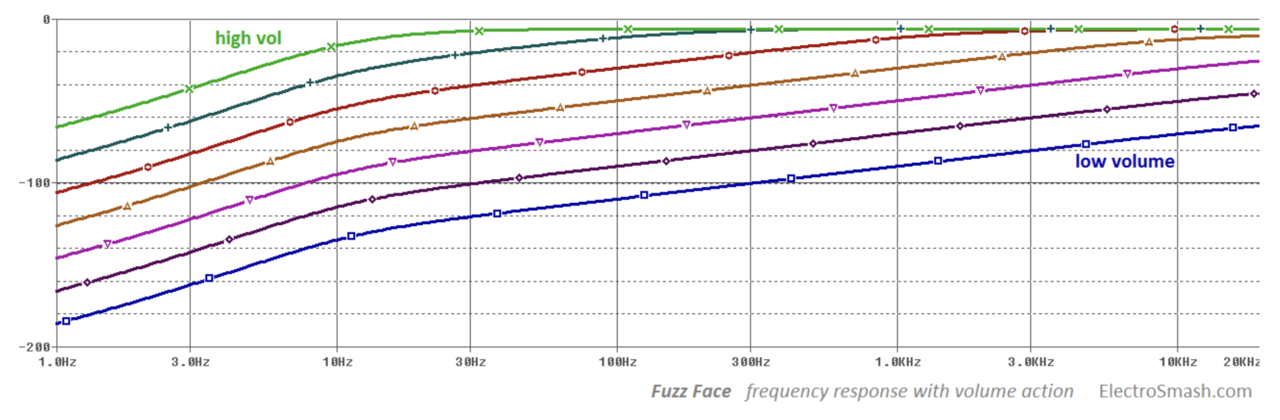
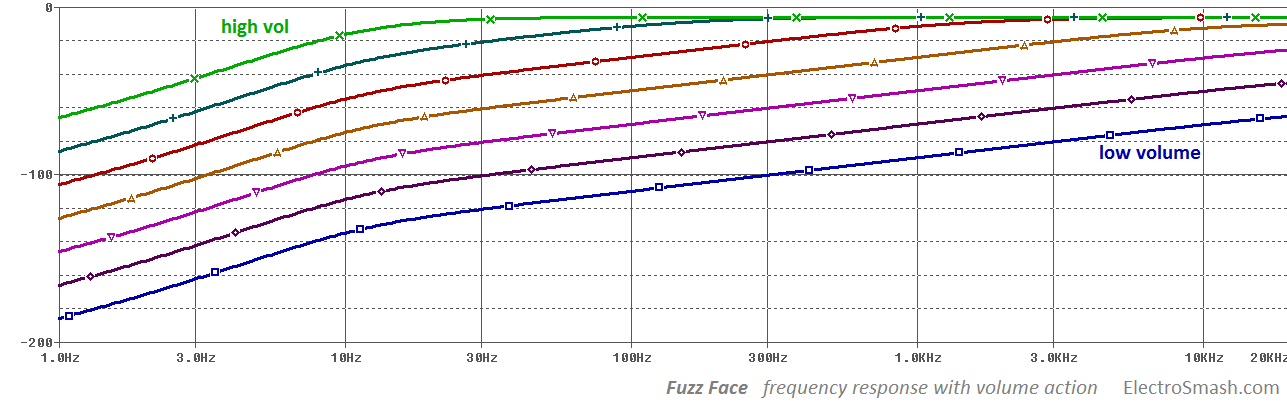
Restore equations and fix duplicated images site-wide
- Convert remaining gif.latex equation images (10 pages, 46 equations) to
  MathJax using the LaTeX preserved in the pdf/ HTML title attributes
- Use the original full-resolution fuzz-face frequency response chart
- Fix wrong duplicated images in mn3007 (bbd-silicon) and jrc4558
  (jrc4558-current-supply)
- Remove now-unused gif.latex placeholder files

Builds on PRs #1 and #2 by Paul Winkler.

diff --git a/lm386-analysis.html b/lm386-analysis.html
@@ -6,6 +6,8 @@
 <title>LM386 Audio Amplifier Analysis &middot; ElectroSmash Archive</title>
 <link rel="canonical" href="https://electrosmash.mas-effects.com/lm386-analysis.html">
 <link rel="stylesheet" href="style.css">
+<script>window.MathJax = {tex: {inlineMath: [["\\(", "\\)"]], displayMath: [["\\[", "\\]"]]}};</script>
+<script src="https://cdnjs.cloudflare.com/ajax/libs/mathjax/3.2.2/es5/tex-mml-chtml.min.js"></script>
 </head>
 <body>
 <header class="site-header">
@@ -107,13 +109,13 @@
 <li>The current mirror formed by Q5 and Q6 generates equal currents on both sides of the LTP. This current is labeled "I".</li>
 </ol>
 <p>Due to the current mirror, the current intensity through R8 is equal to 2I, neglecting the current (i7) through the two 15K resistors (R6, R7), which are large impedances compared to other parts of the circuit, thereby:</p>
-<p><br/>     <img alt="" border="0" class="article-img" src="images/lm386-analysis/gif.latex"/><br/>     <img alt="" border="0" class="article-img" src="images/lm386-analysis/gif.latex"/><br/>     <img alt="" border="0" class="article-img" src="images/lm386-analysis/gif.latex"/></p>
+<p><br/>     \[\frac{{V}_{out}-{V}_{in}}{{R}_{8}}= 2 I\]<br/>     \[{V}_{out} \gg {V}_{in}\]<br/>     \[\frac{{V}_{out}}{{R}_{8}}= 2 I\]</p>
 <p>In the figure above, is easy to see that if i7=0 then:</p>
-<p>    <img alt="" border="0" class="article-img" src="images/lm386-analysis/gif.latex"/></p>
+<p>    \[I=\frac{{V}_{in}}{{R}_{4}+{R}_{5}}\]</p>
 <p>So:</p>
-<p>   <img alt="" border="0" class="article-img" src="images/lm386-analysis/gif.latex"/><br/><br/>     <img alt="" border="0" class="article-img" src="images/lm386-analysis/gif.latex"/></p>
+<p>   \[\frac{{V}_{out}}{{R}_{8}}= 2 \frac{{V}_{in}}{{R}_{4}+{R}_{5}}\]<br/><br/>     \[{G}_{v}=\frac{{V}_{out}}{{V}_{in}}=2\frac{{R}_{8}}{{R}_{4} + {R}_{5}}\]</p>
 <p>This formula can also be rewritten in a more generic way as:</p>
-<p>    <img alt="" border="0" class="article-img" src="images/lm386-analysis/gif.latex"/> </p>
+<p>    \[{G}_{v}=\frac{{V}_{out}}{{V}_{in}}=2\frac{{Z}_{1-5}}{150 + {Z}_{1-8}}\] </p>
 <p>Where Z<sub>1-5</sub> and Z<sub>1-8</sub> are the impedances between the respective pins.</p>
 <ul>
 <li>Without any external components, it has a gain of Gv = 2x15K/(150+1350) = 20 (26 dB).</li>
@@ -138,17 +140,17 @@
 <p>Approach 1:</p>
 <p>The current mirror (Q<sub>5</sub>, Q<sub>6</sub>) balances the LTP, equalizing the current through both transistors (Q<sub>2</sub>, Q<sub>4</sub>) and improving the linearity of the input stage.  Therefore, the currents on both tails are equal: both DC and AC components.</p>
 <p><br/>Since the currents  "I" in the emitters of  Q<sub>2</sub> and Q<sub>4</sub> are the same:</p>
-<p><img alt="" border="0" class="article-img" src="images/lm386-analysis/gif.latex"/></p>
+<p>\[{V}_{7}=\frac{{V}_{cc}}{2}+{V}_{eb2}+{V}_{eb1} \approx \frac{{V}_{cc}}{2}\]</p>
 <p>Because of the symmetry of the circuit,  V<sub>out</sub> = V<sub>7</sub> ("Bypass" pin), making</p>
-<p><img alt="" border="0" class="article-img" src="images/lm386-analysis/gif.latex"/></p>
+<p>\[{V}_{out}=\frac{{V}_{cc}}{2}\]</p>
 
 <p>Approach 2:</p>
 <p>I<sub>diff</sub>=0 because V<sub>1</sub> and V<sub>2</sub> are at the same potential V<sub>1</sub>=V<sub>2</sub></p>
-<p><img alt="" border="0" class="article-img" src="images/lm386-analysis/gif.latex"/><br/><br/> <img alt="" border="0" class="article-img" src="images/lm386-analysis/gif.latex"/></p>
+<p>\[{I}_{Q2}=\frac{{V}_{cc}-{V}_{eb2}-{V}_{eb1}}{{R}_{6} + {R}_{7}}\]<br/><br/> \[{I}_{Q4}=\frac{{V}_{out}-{V}_{eb4}-{V}_{eb3}}{{R}_{8}}\]</p>
 <p>Due to the current mirror IQ2=IQ4</p>
-<p><img alt="" border="0" class="article-img" src="images/lm386-analysis/gif.latex"/></p>
+<p>\[\frac{{V}_{cc}-{V}_{eb2}-{V}_{eb1}}{{R}_{6} + {R}_{7}} = \frac{{V}_{out}-{V}_{eb4}-{V}_{eb3}}{{R}_{8}}\]</p>
 <p><br/>With Veb2= Veb4, Veb1=Veb3 and R6=R7=R8=15K:</p>
-<p> <img alt="" border="0" class="article-img" src="images/lm386-analysis/gif.latex"/><br/><br/> <img alt="" border="0" class="article-img" src="images/lm386-analysis/gif.latex"/></p>
+<p> \[{V}_{out}=\frac{{V}_{cc}}{2}+{V}_{eb1}+{V}_{eb2} \approx \frac{{V}_{cc}}{2}\]<br/><br/> \[{V}_{out}=\frac{{V}_{cc}}{2}\]</p>
 <h2><a id="frequency" name="frequency"></a>3. LM386 Frequency Response.</h2>
 <p>Looking at the LM386 <em>Voltage Gain vs Frequency</em> datasheet graph, the frequency response is flat in the audible region (up to 20KHz). Supplementary external components can be used to tailor the response to specific applications. </p>
 <p>It may be interesting to modify the feedback loop between pins 5 and 1 that can be exploited for bass boost, and the more familiar feedback loop between pins 8 and 1 can also be modified to use different capacitor/resistor feedback combinations in parallel to yield differential gain for different frequency ranges.</p>
@@ -159,17 +161,20 @@
 <ul>
 <li>If pin 8 is open: R<sub>min</sub>=10k, calculated as:</li>
 </ul>
-<p>    <img alt="" border="0" class="article-img" src="images/lm386-analysis/gif.latex"/><br/><br/></p>
+<p>    \[{G}_{v}=2\cdot\frac{{R}_{8}||{R}}{{R}_{4} + {R}_{5}} \to 9 &lt; 2\cdot \frac{15K||{R}}{150 + 1.35K}\to R&gt;12.2K\simeq10K\]<br/><br/></p>
 <ul>
 <li>If pins 1 -8 are bypassed: Rmin=2K, calculated as:        </li>
 </ul>
-<p>    <img alt="" border="0" class="article-img" src="images/lm386-analysis/gif.latex"/></p>
+<p>    \[{G}_{v}=2\cdot\frac{{R}_{8}||{R}}{{R}_{4}} \to 9 &lt; 2\cdot \frac{15K||{R}}{150}\to R&gt;0.69K\simeq2K\]</p>
 <h3><a id="bassboost" name="bassboost"></a><strong>3.1 LM386 Bass Boost Frequency Calculation:</strong></h3>
 <p>For a 6 dB effective bass boost, the datasheet suggests R=10K and C=33nF between pins 1 and 5 with pin 8 open, another common set of values used are  R=2K2 and R=4.7nF. Actually, this modification did not provide an active boost, just a roll-off at frequencies below the selected frequency, that is it a low pass filter.</p>
 <p>This mod can successfully compensate a poor speaker bass response and filter the hissing noise, but in the other hand, if the circuit has a gain pot between pins 1 and 8 as Little Gem, Ruby Amp and Noisy Cricket do, the cut frequency will be modified with the gain value. Unfortunately, the bass boost will be gain dependent.</p>
 <p>The effect of the bass boost RC network can be analyzed with the voltage gain equation above by inserting R + 1/jωC impedances in parallel to the internal Z<sub>1-5</sub> feedback resistor.</p>
-<p>    <img alt="" border="0" class="article-img" src="images/lm386-analysis/gif.latex"/>  <br/><br/>     <img alt="" border="0" class="article-img" src="images/lm386-analysis/gif.latex"/></p>
-<p>So f<sub>c</sub> can be calculated:<br/><br/>     <img alt="" border="0" class="article-img" src="images/lm386-analysis/gif.latex"/><br/>     <img alt="" border="0" class="article-img" src="images/lm386-analysis/gif.latex"/></p>
+<p>    \[{G}_{v}=2\cdot\frac{{Z}_{1-5}|| R + \frac{1}{j2\pi fC}}{150 + {Z}_{1-8}}\]
+\[{G}_{v}=\frac{2}{150 + {Z}_{1-8}}\cdot\frac{{Z}_{1-5}\cdot (R + \frac{1}{j2\pi fC})}{{Z}_{1-5} + R + \frac{1}{j2\pi fC}}\]
+\[{G}_{v}=\frac{2 {Z}_{1-5}R}{150 + {Z}_{1-8}}\cdot\frac{{Z}_{1-5}}{{j2\pi fC ({Z}_{1-5} + R)+1}}\]  <br/><br/>     \[{G}_{v}=\frac{1}{\frac{(150 + {Z}_{1-8}) \cdot j2\pi fC ({Z}_{1-5} + R)}{2({Z}_{1-5})^{2}R}+\frac{150 + {Z}_{1-8}}{2({Z}_{1-5})^{2}R}}\]
+\[|{G}_{v}|=\frac{1}{ \sqrt{(\frac{(150 + {Z}_{1-8}) \cdot j2\pi fC ({Z}_{1-5} + R)}{2({Z}_{1-5})^{2}R})^{2}+(\frac{150 + {Z}_{1-8}}{2({Z}_{1-5})^{2}R}})^{2}}\]</p>
+<p>So f<sub>c</sub> can be calculated:<br/><br/>     \[{f}_{c}=\frac{\frac{150 + {Z}_{1-8}}{2({Z}_{1-5})^{2}R} \cdot 2({Z}_{1-5})^{2}R}{2\pi C(150 + {Z}_{1-8}) \cdot ({Z}_{1-5} + R)}\]<br/>     \[{f}_{c}=\frac{1}{2\pi C \cdot ({Z}_{1-5} + R)}\]</p>
 <p>So, assuming that the Z<sub>1-5</sub> internal resistance is 15K, the value of f<sub>c</sub> for the most common RC values can be calculated as follows:</p>
 <ul>
 <li>Using R=10K and C=33nF →  f<sub>c</sub>= 1/2π x 33nF x (15K+10K)=192,2 Hz</li>

diff --git a/ruby-amp-analysis.html b/ruby-amp-analysis.html
@@ -6,6 +6,8 @@
 <title>Ruby Amp Analysis &middot; ElectroSmash Archive</title>
 <link rel="canonical" href="https://electrosmash.mas-effects.com/ruby-amp-analysis.html">
 <link rel="stylesheet" href="style.css">
+<script>window.MathJax = {tex: {inlineMath: [["\\(", "\\)"]], displayMath: [["\\[", "\\]"]]}};</script>
+<script src="https://cdnjs.cloudflare.com/ajax/libs/mathjax/3.2.2/es5/tex-mml-chtml.min.js"></script>
 </head>
 <body>
 <header class="site-header">
@@ -40,8 +42,8 @@
 <p>The R<sub>3</sub> Volume potentiometer limits the amount of signal into the 386. As the Volume is increased, you will start getting nice breakup. Remember that the input voltage bounds for LM386 are ±0.4V, over/under these levels, the signal will be clipped.</p>
 <h3><a id="link13" name="link13"></a><strong>1.3 Gain Circuit</strong></h3>
 <p>The 1K logarithmic potentiometer (R<sub>4</sub>) is placed between pins 1 and 8 in order to adjust the gain from 41 (28dB) to 200 (46db). Following the general LM386 voltage gain formula (from the datasheet):</p>
-<p><img alt="" class="article-img" src="images/ruby-amp-analysis/gif.latex"/></p>
-<p><img alt="" class="article-img" src="images/ruby-amp-analysis/gif.latex"/></p>
+<p>\[{G}_{v\: max}=\frac{{V}_{out}}{{V}_{in}}=2\frac{{Z}_{1-5}}{150 + {Z}_{1-8}}=2\frac{15K}{150 + 0}= 200 \: (46dB)\]</p>
+<p>\[{G}_{v\: min}=\frac{{V}_{out}}{{V}_{in}}=2\frac{{Z}_{1-5}}{150 + {Z}_{1-8}}=2\frac{15K}{150 + (1.35K||1K))}= 41 \: (32dB)\]</p>
 <p>Where Z<sub>1-5</sub> and Z<sub>1-8</sub> are the impedances between the respective pins. Note that Z<sub>1-5</sub> internal resistance is 15K and Z<sub>1-8</sub> is 1.35K.</p>
 <h3><a id="link14" name="link14"></a><strong>1.4. Stabilization Techniques</strong></h3>
 <p>Following the LM386 application notes, some measures should be taken to increase the stability and prevent signal degradation:</p>
@@ -59,13 +61,13 @@
 <ul>
 <li>The first high-pass filter cut-off frequency is around 360Hz and it is formed by C<sub>1</sub> and R<sub>3</sub> (note that the volume resistor wiper is loaded by the LM386 input resistance, which is 50K). The cut-off frequency is variable or "volume dependent" following the equation below. However, this unwished variation is very small and only present at low volume levels, this tiny tone change is barely noticeable:<br/></li>
 </ul>
-<p> <img alt="" class="article-img" src="images/ruby-amp-analysis/gif.latex"/></p>
-<p> <img alt="" class="article-img" src="images/ruby-amp-analysis/gif.latex"/></p>
+<p> \[f_{c \: min}=\frac{1}{2\pi\cdot C1 \cdot R }=\frac{1}{2\pi\cdot 47uF \cdot 10K}=338Hz\]</p>
+<p> \[f_{c \: max}=\frac{1}{2\pi\cdot C1 \cdot R }=\frac{1}{2\pi\cdot 47uF \cdot (10K||50K)}=408Hz\]</p>
 
 <ul>
 <li>The second high-pass filter formed by C<sub>5</sub> and the speaker load (8Ω) is a classic bass cut filter, that will start rolling off bass under 90Hz to keep the small speaker from farting out and also removing any DC component from the output signal. For more detailed info check the <a href="smokey-amp-analysis.html#freq">"Smokey Amp Frequency Response"</a>.</li>
 </ul>
-<p><img alt="" class="article-img" src="images/ruby-amp-analysis/gif.latex"/></p>
+<p>\[f_{c \: max}=\frac{1}{2\pi\cdot C \cdot R }=\frac{1}{2\pi\cdot 220uF \cdot 8 }=90Hz\]</p>
 
 
 <p>So taking both filters into consideration, the graph gain vs frequency looks like this:</p>
@@ -94,7 +96,7 @@
 <li>Remove the Gain pot and place 2K2 R<sub>4</sub> fixed resistor between pins 1 and 8.<br/></li>
 </ul>
 <p>In the Ruby Bassman, the Gain is level fixed to 30, remember that the Original Ruby Gain is variable from 41 to 200, so the signal, in this case, will be less distorted.</p>
-<p><img alt="" class="article-img" src="images/ruby-amp-analysis/gif.latex"/></p>
+<p>\[G_{v}=2 \cdot \frac{Z_{1-5}}{150+Z_{1-8}}=2 \cdot \frac{15K}{150+(1.35||2K2))}=30.4\: (29dB)\]</p>
 <p>Where Z<sub>1-5</sub> and Z1-8 are the impedances between the respective pins. Note that Z<sub>1-5</sub> internal resistance is 15K and Z<sub>1-8</sub> is 1.35K.</p>
 <h4><a id="link411" name="link411"></a><strong>4.1.1 Ruby Bassman Frequency Response</strong></h4>
 <p><img alt="Ruby Bassman Frequency Response" class="article-img" src="images/ruby-amp-analysis/ruby-bassman-freq.gif"/></p>
@@ -109,7 +111,7 @@
 <li>Tied together pins 1 &amp; 8 for a gain of 200.</li>
 </ul>
 <p>The voltage gain is fixed in 200:</p>
-<p><img alt="" class="article-img" src="images/ruby-amp-analysis/gif.latex"/></p>
+<p>\[G_{v}=2 \cdot \frac{Z_{1-5}}{150+Z_{1-8}}=2 \cdot \frac{15K}{150+0}=200\: (46dB)\]</p>
 <p>Where Z<sub>1-5</sub> and Z<sub>1-8</sub> are the impedances between the respective pins. Note that Z<sub>1-5</sub> internal resistance is 15K and Z<sub>1-8</sub> is 1.35K.<br/></p>
 <h4><a id="link421" name="link421"></a><strong>4.2.1 Ruby Hiwat Frequency Response.</strong></h4>
 <p><img alt="Ruby Hiwatt Frequency Response" class="article-img" src="images/ruby-amp-analysis/ruby-hiwatt-freq.gif"/></p>

diff --git a/jrc4558-analysis.html b/jrc4558-analysis.html
@@ -6,6 +6,8 @@
 <title>JRC4558 Analysis &middot; ElectroSmash Archive</title>
 <link rel="canonical" href="https://electrosmash.mas-effects.com/jrc4558-analysis.html">
 <link rel="stylesheet" href="style.css">
+<script>window.MathJax = {tex: {inlineMath: [["\\(", "\\)"]], displayMath: [["\\[", "\\]"]]}};</script>
+<script src="https://cdnjs.cloudflare.com/ajax/libs/mathjax/3.2.2/es5/tex-mml-chtml.min.js"></script>
 </head>
 <body>
 <header class="site-header">
@@ -26,7 +28,7 @@
 <p>The JRC4558 internal schematic is based on the Lin Topology (named after <a href="http://www.washingtonpost.com/wp-dyn/content/article/2009/03/28/AR2009032801762.html" rel="noopener noreferrer" target="_blank">Hung C. 'Jimmy' Lin an RCA researcher</a>) following the <a href="https://en.wikipedia.org/wiki/Operational_amplifier#Internal_circuitry_of_741-type_op-amp" rel="noopener noreferrer" target="_blank">classic 741 type opamp structure</a> with some modifications. Find below the simplified circuit provided by JRC, broken down into blocks: Current Supply, Input Stage, Voltage Amplifier Stage (VAS), Output Stage (OPS) and Feedback Path.<br/><img alt="JRC internal circuit schematic" class="article-img" src="images/jrc4558-analysis/jrc4558-color-schematic.png"/></p>
 <h3><a id="current"></a><strong>1.1 JRC4558 Current Supply.</strong></h3>
 <p>The Active Current Supply it is a utility stage which provides a constant flow of current to the different blocks. A stable current source is important in order to improve linearity and noise rejection. This stage highlighted in green color is formed by Q<sub>1</sub>, Q<sub>7</sub>, Q<sub>13</sub>, Q<sub>14</sub>, Q<sub>15</sub>, R<sub>1</sub>, R<sub>9</sub> and D<sub>2</sub>:</p>
-<p><img alt="JRC4558 Current Supply" class="article-img" src="images/jrc4558-analysis/jrc4558-input-stage.png"/></p>
+<p><img alt="JRC4558 Current Supply" class="article-img" src="images/jrc4558-analysis/jrc4558-current-supply.png"/></p>
 <p>The JFET Q<sub>15</sub> is a self-biased current source, it will provide a constant current source independent from the voltage supply. The start-up of this part of the circuit is simple:</p>
 <ul>
 <li>When the +Vcc voltage source is turned on, no current is yet flowing through the JFET Q<sub>15</sub>. Then the voltage drop across the Zener diode D2 and V<sub>GS</sub> will be zero. With zero V<sub>GS</sub> the transistor enters in saturation region allowing a large current to flow through the JFET, so the current will increase. As the current increases, a voltage drop will develop across the Zener, until the diode will be reversed biased. The gate will become negatively biased with regards to the source, negative values of V<sub>GS</sub> will start to shut Q<sub>15</sub> off. Eventually, a stable equilibrium will be attained through feedback, where V<sub>GS</sub> is just right for the current flowing through the JFET. </li>
@@ -35,7 +37,7 @@
 <p><img alt="Jfet N Channel Graph" class="article-img" src="images/jrc4558-analysis/jrc4558-color-schematic-small.png"/></p>
 <p>The Zener diode D<sub>2</sub>, when reverse biased has a constant voltage drop (Vz). As long as the Zener current (Iz) is between certain levels (Iz<sub>min</sub> and Iz<sub>max</sub>) called holding current, the voltage across the Zener diode (V<sub>Z</sub>) will be constantly working in the Voltage Regulation Area:<img alt="Diode Zener Graph" class="article-img" src="images/jrc4558-analysis/diode-zener-graph.png"/></p>
 <p>The Zener diode stabilized voltage V<sub>Z</sub> drives an emitter follower Q<sub>14</sub> loaded by a constant emitter resistor R<sub>9</sub> sensing the load current. As a result, the output current I<sub>9</sub> is almost constant even if the load resistance and/or voltage changes. The circuit operates as a constant current source:</p>
-<p><img alt="" class="article-img" src="images/jrc4558-analysis/gif.latex"/></p>
+<p>\[I_{9}=\frac{V_{z}-V_{be}}{R_{9}}\]</p>
 <p>The external current mirror load of this current source is connected to the collector so that almost the same current flows through it and the emitter resistor.</p>
 <ul>
 <li> Q<sub>13</sub> and Q<sub>7</sub> are configured as a classic current mirror, meaning that the current through Q<sub>13</sub> (I<sub>13</sub>) will be mirrored in Q<sub>7</sub>, making I<sub>13</sub> = I<sub>7</sub></li>

diff --git a/mn3007-bucket-brigade-devices.html b/mn3007-bucket-brigade-devices.html
@@ -6,6 +6,8 @@
 <title>Bucket Brigade Devices: MN3007 &middot; ElectroSmash Archive</title>
 <link rel="canonical" href="https://electrosmash.mas-effects.com/mn3007-bucket-brigade-devices.html">
 <link rel="stylesheet" href="style.css">
+<script>window.MathJax = {tex: {inlineMath: [["\\(", "\\)"]], displayMath: [["\\[", "\\]"]]}};</script>
+<script src="https://cdnjs.cloudflare.com/ajax/libs/mathjax/3.2.2/es5/tex-mml-chtml.min.js"></script>
 </head>
 <body>
 <header class="site-header">
@@ -25,7 +27,7 @@
 <p>BBDs are given their name because of the similarity in their functionality to a line of people passing buckets of water to fight a fire. The chip was licensed to Matsushita from mid-70s, Roland/Boss was the first customer and they used it in the Roland JC120 Amplifier, the Chorus CE-1 pedal and later on the<a href="boss-ce-2-analysis.html"> Chorus CE-2</a>.</p>
 <p><img alt="Fire Bucket Brigade" class="article-img" src="images/mn3007-bucket-brigade-devices/fire-bucket-brigade.jpg"/></p>
 
-<p><img alt="Bucket Brigade Device Silicon" class="article-img" src="images/mn3007-bucket-brigade-devices/bbd-topology-basic.png"/></p>
+<p><img alt="Bucket Brigade Device Silicon" class="article-img" src="images/mn3007-bucket-brigade-devices/bbd-silicon.png"/></p>
 <p>They consist of a series of capacitors sections which carry the analog signal. The charge in each cap stage is passed into the subsequent stage using transistors as switches at a rate determined by an external clock. <br/>In this way, the output delayed signal is discrete in time due to the external clock sampling and analog in amplitude because of the capacitor storage element.</p>
 
 <p><img alt="Bucket Brigade Device Explanation" class="article-img" src="images/mn3007-bucket-brigade-devices/bbd-basic.png"/></p>
@@ -71,10 +73,10 @@
 <h3><strong><a id="link41" name="link41"></a>4.1 BBD Clock Limitations.</strong></h3>
 <p>Following the datasheet recommendations, BBDs guaranteed a correct behavior under a certain clock frequency (100~200KHz). It is because the input capacitance of the clock pins causes progressive degradation of clock pulses above the frequency limit: The clock pulses change from square to a trapezoidal/sawtooth waveform. When that happens the switching action is not perfectly synchronized resulting in a signal degradation.<br/><br/>The clock frequency limitation is the reason why the Reticon SAD1024 chip was a largely preferred choice for flangers effects which involve short delay and fast clock: the input capacitance on the clock pins was much lower (110pF) than on the MN3007 (700pF), allowing it to be clocked at much higher frequencies.<br/>When suitably buffered, though, there are reports of it clocking MN3xxx chips up well past 1MHz, which takes the device close the zero-delay zone, being convenient for fine flanger effects.</p>
 <p>BBD Sampling Time Limitations: For any BBD, the total delay time can be calculated as:</p>
-<p><img alt="" class="article-img" src="images/mn3007-bucket-brigade-devices/gif.latex"/><br/>where:</p>
+<p>\[time_{delay}=\frac{N}{2\cdot f_{clock}}\]<br/>where:</p>
 <p>N: is the number of stages.<br/>f<sub>clock</sub>: is the circuit clock frequency.</p>
 <p>The clock signals applied to the BBD will determine the signal sampling time, this sampling time should respect the Nyquist-Shannon Theorem:</p>
-<p><img alt="" class="article-img" src="images/mn3007-bucket-brigade-devices/gif.latex"/></p>
+<p>\[f_{sampling}&lt; 2 \cdot f_{signal}\]</p>
 <ul>
 <li>For short delay effects like flanging, the input signal can be oversampled, there is no penalty in terms of signal degradation. If the clock signal goes beyond the BBD clock boundary, the clk signal can be degraded as explained above and the audio waveform corrupted. </li>
 <li>For long delay effects like delay, the input signal is can be undersampled, the resulting processed signal will be degraded but the total delay time is extended.</li>

diff --git a/big-muff-pi-analysis.html b/big-muff-pi-analysis.html
@@ -6,6 +6,8 @@
 <title>Big Muff Pi Analysis &middot; ElectroSmash Archive</title>
 <link rel="canonical" href="https://electrosmash.mas-effects.com/big-muff-pi-analysis.html">
 <link rel="stylesheet" href="style.css">
+<script>window.MathJax = {tex: {inlineMath: [["\\(", "\\)"]], displayMath: [["\\[", "\\]"]]}};</script>
+<script src="https://cdnjs.cloudflare.com/ajax/libs/mathjax/3.2.2/es5/tex-mml-chtml.min.js"></script>
 </head>
 <body>
 <header class="site-header">
@@ -60,23 +62,23 @@
 </ul>
 <p>The equivalent circuit uses Norton's current source since the feedback signal is current. In the image below, the feedback resistor is grounded in the input and output sections and the resistors grouped:<img alt="Big Muff Pi Small Signal " class="article-img" src="images/big-muff-pi-analysis/bmp-small-signal2.png"/> </p>
 <p>Where:</p>
-<p><img alt="" class="article-img" src="images/big-muff-pi-analysis/gif.latex"/></p>
-<p><img alt="" class="article-img" src="images/big-muff-pi-analysis/gif.latex"/></p>
+<p>\[R_{B}=R_{S}//R_{A}//R_{F} = 39K//47K//470K = 20.4K\]</p>
+<p>\[R_{L}=R_{sustain}//R_{C}//R_{F} = 101K//10K//470K = 9K\]</p>
 
 
 <ul>
 <li><strong>c) T</strong><strong>he voltage gain</strong> can be calculated following the simplified analysis of these equations:</li>
 </ul>
 <p>A<sub>Z</sub>: Voltage-Shunt Gain without feedback formula:</p>
-<p><img alt="" class="article-img" src="images/big-muff-pi-analysis/gif.latex"/></p>
-<p><br/><img alt="" class="article-img" src="images/big-muff-pi-analysis/gif.latex"/></p>
-<p><br/><img alt="" class="article-img" src="images/big-muff-pi-analysis/gif.latex"/></p>
+<p>\[A_{z}=\frac{V_{out}}{I_{s}}=\frac{\beta \cdot i_{b} \cdot R_{L}}{i_{b} + (\frac{r\pi \cdot i_{b}}{R_{B}}) + (\frac{R_{E}(\beta +1)i_{b}}{R_{B}})}\]</p>
+<p><br/>\[with\: \: \: \: (\frac{R_{E}(\beta +1)i_{b}}{R_{B}}) \gg i_{b} + (\frac{r\pi \cdot i_{b}}{R_{B}})\]</p>
+<p><br/>\[A_{z}=\frac{V_{out}}{I_{s}}=\frac{R_{B} \cdot R_{L}}{R_{E}}\]</p>
 <p>B<sub>G</sub>: Feedback Voltage-Shunt formula:</p>
-<p><img alt="" class="article-img" src="images/big-muff-pi-analysis/gif.latex"/></p>
+<p>\[B_{G}=\frac{I_{F}}{V_{out}}=- \frac{1}{R_{F}}\]</p>
 <p>A<sub>ZF</sub>: Voltage-Shunt Gain with Feedback </p>
-<p><img alt="" class="article-img" src="images/big-muff-pi-analysis/gif.latex"/></p>
+<p>\[A_{ZF}=\frac{A_{Z}}{1+A_{Z}B_{G}}=\frac{\frac{R_{B} \cdot R_{L}}{R_{E}}}{1+\frac{R_{B} \cdot R_{L}}{R_{E}}\cdot\frac{1}{R_{F}}}\]</p>
 <p>GV: Voltage Gain:</p>
-<p><img alt="" class="article-img" src="images/big-muff-pi-analysis/gif.latex"/></p>
+<p>\[G_{V}=\frac{V_{out}}{V_{S}}=\frac{V_{out}}{I_{S}\cdot R_{S}}=\frac{A_{ZF}}{R_{S}}\]</p>
 <p>Replacing the Input Booster circuit values R<sub>B</sub>=20.4K, R<sub>L</sub>=9K, R<sub>E</sub> =100, R<sub>S</sub>=39K and R<sub>F</sub> =470K the results obtained are B<sub>G</sub>=1/470K, A<sub>ZF</sub>=374.2 and the voltage value is G<sub>V</sub>=9.6 (19.6dB) although doing the simulation the G<sub>V</sub> never reaches this value (it is 16.7 dB).</p>
 
 <h3><a id="link23" name="link23"></a><strong>2.3 Big Muff Pi Input Impedance Calculation.</strong></h3>

diff --git a/little-gem-analysis.html b/little-gem-analysis.html
@@ -6,6 +6,8 @@
 <title>Little Gem Analysis &middot; ElectroSmash Archive</title>
 <link rel="canonical" href="https://electrosmash.mas-effects.com/little-gem-analysis.html">
 <link rel="stylesheet" href="style.css">
+<script>window.MathJax = {tex: {inlineMath: [["\\(", "\\)"]], displayMath: [["\\[", "\\]"]]}};</script>
+<script src="https://cdnjs.cloudflare.com/ajax/libs/mathjax/3.2.2/es5/tex-mml-chtml.min.js"></script>
 </head>
 <body>
 <header class="site-header">
@@ -25,8 +27,8 @@
 <p>This guitar mini amplifier takes the basic <a href="smokey-amp-analysis.html">Smokey Amp circuit</a> and adds several improvements like power supply decoupling caps, a Zobel Network and Gain / Master Volume controls.<a href="images/little-gem-analysis/little-gem.gif" rel="noopener" target="_blank"></a></p>
 <h3><strong><a id="link11" name="link11"></a>1.1 Gain &amp; Volume Controls.</strong></h3>
 <p><strong>Gain:</strong> To make the LM386 a more versatile amplifier, a 5K logarithmic R<sub>1</sub> potentiometer is placed between pins 1 and 8 to adjust the gain from 26 (28dB) to 200 (46db) following the general LM386 voltage gain formula:</p>
-<p> <img alt="" class="article-img" src="images/little-gem-analysis/gif.latex"/></p>
-<p><img alt="" class="article-img" src="images/little-gem-analysis/gif.latex"/></p>
+<p> \[{G}_{v\: min}=\frac{{V}_{out}}{{V}_{in}}=2\frac{{Z}_{1-5}}{150 + {Z}_{1-8}}=2\frac{15K}{150 + (1.35K||5K))}= 26 \: (28dB)\]</p>
+<p>\[{G}_{v\: max}=\frac{{V}_{out}}{{V}_{in}}=2\frac{{Z}_{1-5}}{150 + {Z}_{1-8}}=2\frac{15K}{150 + 0}= 200 \: (46dB)\]</p>
 <p>Where Z<sub>1-5</sub> and Z<sub>1-8</sub> are the impedances between the respective pins. Note that Z<sub>1-5</sub> internal resistance is 15K and Z<sub>1-8</sub> is 1.35K.</p>
 
 <p><strong>Volume:</strong> The volume control is just a voltage divider with an R3 rheostat in the last stage of the circuit.</p>
@@ -54,11 +56,11 @@
 <ul>
 <li><strong>fcmin:</strong> with the volume pot wiper in the <em>min</em> position (set in top-down position), producing minimum output volume, the load is connected to ground. find below the frequency response in red color.</li>
 </ul>
-<p><img alt="" class="article-img" src="images/little-gem-analysis/gif.latex"/></p>
+<p>\[f_{c \: min}=\frac{1}{2\pi\cdot C \cdot R }=\frac{1}{2\pi\cdot 220uF \cdot 25}=29Hz\]</p>
 <ul>
 <li><strong>fcmax</strong>: with the volume pot wiper in the <em>max</em> position (set in top-up position), generating maximum output volume,  the load is in parallel with the volume resistor, find below the frequency response in blue color.</li>
 </ul>
-<p><img alt="" class="article-img" src="images/little-gem-analysis/gif.latex"/></p>
+<p>\[f_{c \: max}=\frac{1}{2\pi\cdot C \cdot R }=\frac{1}{2\pi\cdot 220uF \cdot (25||8)}=119Hz\]</p>
 
 <p>The cut-off frequency at minimum volume is 29 Hz, this value can be too low because the 50-60Hz harmonics from the power network may create a hum. However at this volume level, it does not matter, it is too weak to be noticed.</p>
 <h2><a id="link3" name="link3"></a><strong>3. Little Gem Mods.</strong></h2>

diff --git a/smokey-amp-analysis.html b/smokey-amp-analysis.html
@@ -6,6 +6,8 @@
 <title>Smokey Amp Analysis &middot; ElectroSmash Archive</title>
 <link rel="canonical" href="https://electrosmash.mas-effects.com/smokey-amp-analysis.html">
 <link rel="stylesheet" href="style.css">
+<script>window.MathJax = {tex: {inlineMath: [["\\(", "\\)"]], displayMath: [["\\[", "\\]"]]}};</script>
+<script src="https://cdnjs.cloudflare.com/ajax/libs/mathjax/3.2.2/es5/tex-mml-chtml.min.js"></script>
 </head>
 <body>
 <header class="site-header">
@@ -26,7 +28,7 @@
 
 <p><strong>Gain Calculation:</strong></p>
 <p>Using the general equation of LM386 amplifier, the voltage gain can be calculated as:</p>
-<p><img alt="" class="article-img" src="images/smokey-amp-analysis/gif.latex"/> </p>
+<p>\[{G}_{v}=\frac{{V}_{out}}{{V}_{in}}=2\frac{{Z}_{1-5}}{150 + {Z}_{1-8}}=2\frac{15K}{150 + 0}= 200\: \: (46dB)\] </p>
 <p>Where Z1-5 and Z1-8 are the impedances between the respective pins. Note that Z1-5 internal resistance is 15K and Z1-8 is 1.35K.</p>
 <p>So, the gain is set to the maximum, 200 (46dB). With such a high gain, the circuit could be sensitive to component placement and may tend to oscillate. There are several techniques to improve stability and avoid oscillation: power supply decoupling caps, Zobel output network, etc. Zinky skips all of them in order to keep the design simple.</p>
 <p>Pins 1 and 8 are connected together directly instead of using a cap, as the datasheet suggests. With this arrangement, the circuit will archive higher gain, but the DC operating point of the internal transistors will be affected ( which must have some effect over the tone). However, Zinky again drops this suggestion using a straightforward connection between pins and saving another component to be placed.<br/><br/>The 47uF C1 capacitor from pin 7 to ground in LM386, is used to keep the power supply noise from reaching the output. The high-gain input stage of the IC will be isolated from the power supply noise.</p>

diff --git a/1wamp.html b/1wamp.html
@@ -8,6 +8,8 @@
 <link rel="stylesheet" href="style.css">
 <script>window.MathJax = {tex: {inlineMath: [["\\(", "\\)"]], displayMath: [["\\[", "\\]"]]}};</script>
 <script src="https://cdnjs.cloudflare.com/ajax/libs/mathjax/3.2.2/es5/tex-mml-chtml.min.js"></script>
+<script>window.MathJax = {tex: {inlineMath: [["\\(", "\\)"]], displayMath: [["\\[", "\\]"]]}};</script>
+<script src="https://cdnjs.cloudflare.com/ajax/libs/mathjax/3.2.2/es5/tex-mml-chtml.min.js"></script>
 </head>
 <body>
 <header class="site-header">
@@ -321,8 +323,8 @@
 
 <p><strong>LM386 Voltage Gain Calculation </strong> </p>
 <p>The potentiometer (1K as explained above) placed between pins 1 and 8 to adjust the gain from 41 (28dB) to 200 (46db) following the general LM386 voltage gain formula taken from the datasheet:</p>
-<p><img alt="" class="article-img" src="images/1wamp/gif.latex"/></p>
-<p><img alt="" class="article-img" src="images/1wamp/gif.latex"/></p>
+<p>\[{G}_{v\: max}=\frac{{V}_{out}}{{V}_{in}}=2\frac{{Z}_{1-5}}{150 + {Z}_{1-8}}=2\frac{15K}{150 + 0}= 200 \: (46dB)\]</p>
+<p>\[{G}_{v\: min}=\frac{{V}_{out}}{{V}_{in}}=2\frac{{Z}_{1-5}}{150 + {Z}_{1-8}}=2\frac{15K}{150 + (1.35K||1K))}= 41 \: (32dB)\]</p>
 <p>Where Z<sub>1-5</sub> and Z<sub>1-8</sub> are the impedances between the respective pins. Note that Z<sub>1-5</sub> internal resistance is 15KΩ and Z<sub>1-8</sub> is 1.35KΩ.</p>
 <p>If you want to read more about how to calculate the voltage gain, you can read the <a href="ruby-amp-analysis.html#link13">Voltage Gain Calculation in the Ruby Amp</a>.</p>
 

diff --git a/noisy-cricket-analysis.html b/noisy-cricket-analysis.html
@@ -6,6 +6,8 @@
 <title>Noisy Cricket Analysis &middot; ElectroSmash Archive</title>
 <link rel="canonical" href="https://electrosmash.mas-effects.com/noisy-cricket-analysis.html">
 <link rel="stylesheet" href="style.css">
+<script>window.MathJax = {tex: {inlineMath: [["\\(", "\\)"]], displayMath: [["\\[", "\\]"]]}};</script>
+<script src="https://cdnjs.cloudflare.com/ajax/libs/mathjax/3.2.2/es5/tex-mml-chtml.min.js"></script>
 </head>
 <body>
 <header class="site-header">
@@ -42,8 +44,8 @@
 <h3><strong><a id="gain" name="gain"></a>1.2 Noisy Cricket Gain Circuit</strong></h3>
 <p>The 1K logarithmic potentiometer (VR2) is placed between pins 1 and 8 to adjust the voltage gain from 41 (28dB) to 200 (46db), similar to the Ruby Amp. The Gain is calculated following the general LM386 formula: </p>
 
-<p><img alt="" class="article-img" src="images/noisy-cricket-analysis/gif.latex"/></p>
-<p><img alt="" class="article-img" src="images/noisy-cricket-analysis/gif.latex"/></p>
+<p>\[{G}_{v\: min}=\frac{{V}_{out}}{{V}_{in}}=2\frac{{Z}_{1-5}}{150 + {Z}_{1-8}}=2\frac{15K}{150 + (1.35K||1K))}= 41 \: (28dB)\]</p>
+<p>\[{G}_{v\: max}=\frac{{V}_{out}}{{V}_{in}}=2\frac{{Z}_{1-5}}{150 + {Z}_{1-8}}=2\frac{15K}{150 + 0}= 200 \: (46dB)\]</p>
 
 <p>Where Z<sub>1-5</sub> and Z<sub>1-8</sub> are the impedances between the respective pins. Note that Z<sub>1-5</sub> internal resistance is 15K and Z<sub>1-8</sub> is 1.35K.</p>
 <h3><a id="tone" name="tone"></a><strong>1.3 Noisy Cricket Tone/Volume Circuit.</strong></h3>

diff --git a/back-talk-analysis.html b/back-talk-analysis.html
@@ -6,6 +6,8 @@
 <title>Back Talk Reverse Delay Analysis &middot; ElectroSmash Archive</title>
 <link rel="canonical" href="https://electrosmash.mas-effects.com/back-talk-analysis.html">
 <link rel="stylesheet" href="style.css">
+<script>window.MathJax = {tex: {inlineMath: [["\\(", "\\)"]], displayMath: [["\\[", "\\]"]]}};</script>
+<script src="https://cdnjs.cloudflare.com/ajax/libs/mathjax/3.2.2/es5/tex-mml-chtml.min.js"></script>
 </head>
 <body>
 <header class="site-header">
@@ -56,7 +58,7 @@
 </ul>
 <h4><a id="input212" name="input212"></a><strong>2.1.2 Input Buffer Stage.</strong></h4>
 <p>The Input Buffer grants high input impedance, frequency filtering and voltage gain, keeping signal integrity and preparing it to be digitalized.<br/><img alt="Back Talk Reverse Delay Input Buffer" class="article-img" src="images/back-talk-analysis/back-talk-input-buffer.png"/><br/>Not considering for the moment the caps C<sub>3</sub> and C<sub>4</sub>, the non-inverting amplifier gain can be calculated as:</p>
-<p><img alt="" class="article-img" src="images/back-talk-analysis/gif.latex"/></p>
+<p>\[G_{v}=\frac{1+R_{6}}{R_{7}}=\frac{1+47K}{18K}=2.6\]</p>
 <p>The capacitors C<sub>3</sub> and C<sub>4</sub> create a pass-band filter (low pass + high pass) where:</p>
 <ul>
 <li>Low pass = R<sub>6</sub>C<sub>3</sub> network with f<sub>c</sub>=1/(2πR<sub>6</sub>C<sub>3</sub>) </li>
